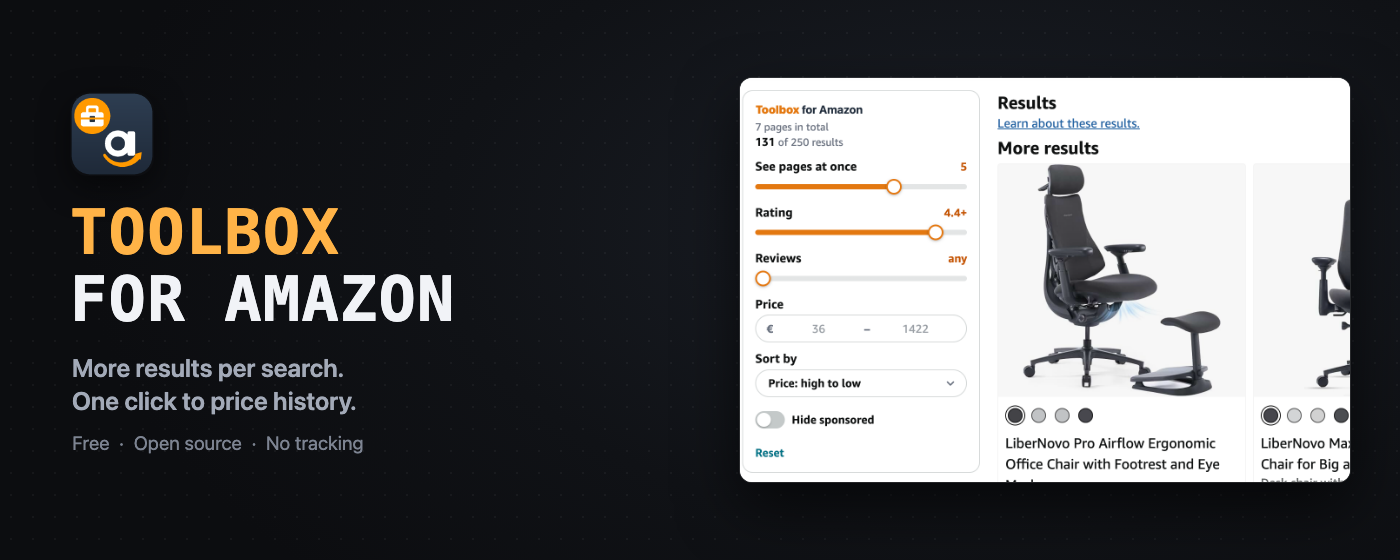
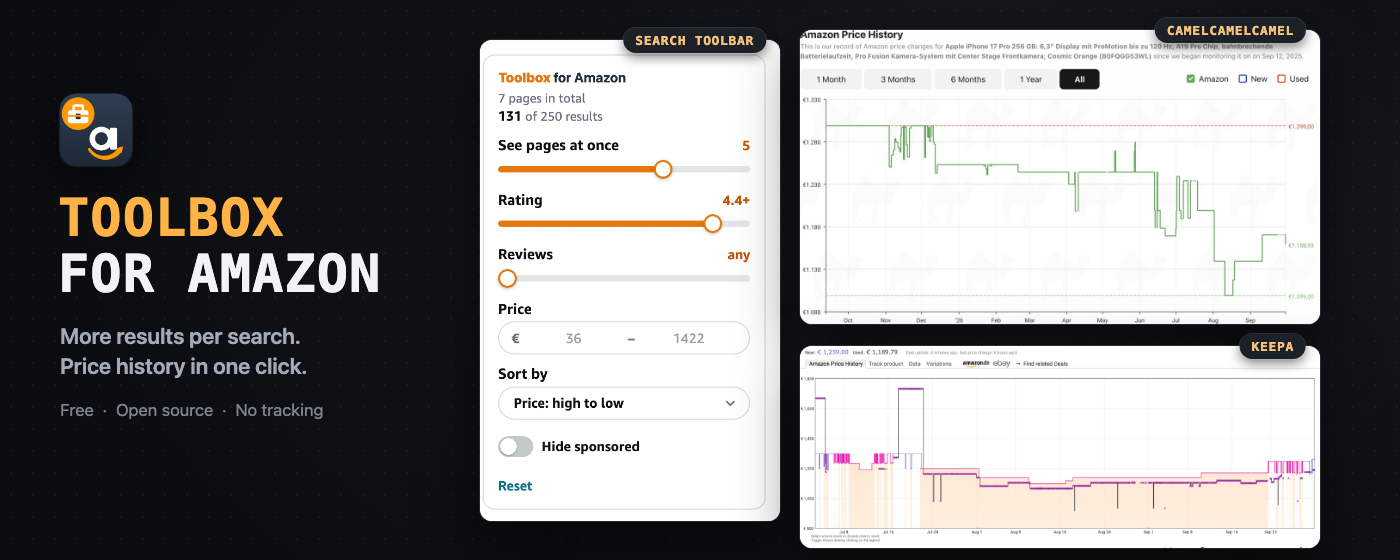
docs: new promo tiles with search panel and both price charts; store permission justifications
- marquee (1400x560) and small (440x280) tiles now show the toolbox panel
  together with the CamelCamelCamel and Keepa charts
- CHROMEWEBSTORE.md: updated permission justifications (activeTab, tabs,
  contextMenus, storage, host) and remote-code answer for the 1.1.0 listing

diff --git a/CHROMEWEBSTORE.md b/CHROMEWEBSTORE.md
@@ -39,16 +39,24 @@ CamelCamelCamel and Keepa — via inline buttons, the toolbar icon or a right-cl
 - **1.0.2** — Context menu is now only shown on product pages (hidden on cart/checkout pages).
 - **1.0.1** — Extension icon now dims to grayscale when not actively browsing an Amazon product page.
 
-## Permission justifications (paste into the dashboard's Permissions tab)
+## Permission justifications (paste into the dashboard's Privacy practices tab)
 
-- **activeTab** — Used only when the user clicks the toolbar icon or the context menu, to read
-  the current tab's URL and title so the extension can detect the Amazon product being viewed
-  and build outbound links.
-- **tabs** — Used to monitor the active URL as you browse, so the extension's icon can be dimmed when not on an Amazon product page.
-- **contextMenus** — Adds the "Check price history" right-click entry (with CamelCamelCamel and
-  Keepa sub-items) on Amazon product pages.
-- **storage** — Required to save your settings: whether the on-page buttons and the search toolbar are enabled, and the search toolbar's last-used values (pages, rating, reviews, sort).
-- **Host Permissions (`*://*.amazon.com/*`, etc.)** — Required to inject the price tracker buttons next to the price on product pages, and the multi-page toolbar on search pages (which fetches the extra result pages you request from the same Amazon site).
+**activeTab**
+> Used when the user clicks the toolbar icon to open the popup. The extension reads the URL and title of the tab being viewed, only to detect whether it is an Amazon product or search page and, on a product page, to build the links to that product's price history on CamelCamelCamel and Keepa. Nothing is collected, stored or sent anywhere.
+
+**contextMenus**
+> Adds one right-click entry, "Check price history", with CamelCamelCamel and Keepa sub-items. It appears only on Amazon product pages. Choosing an item opens that product's price-history page on the chosen site in a new tab. This is the only use of the permission.
+
+**tabs**
+> Used only to read the URL of the active tab, so the extension can tell whether it is an Amazon product or search page. This lets the toolbar icon show as active on those pages and dimmed elsewhere, and lets the popup show the right links. URLs are checked locally in the browser and are never stored, logged or transmitted. No browsing history is collected.
+
+**storage**
+> Saves the user's own preferences in the browser: whether the price-history buttons and the multi-page search toolbar are shown (chrome.storage.sync, so the choice follows the user across devices), and the search toolbar's last-used settings such as number of pages, minimum rating, minimum reviews, sort order and hide-sponsored (chrome.storage.local). No personal data, browsing history or Amazon product information is stored or transmitted.
+
+**Host permission**
+> Content scripts run on Amazon product pages, to add the CamelCamelCamel and Keepa quick-access buttons next to the price, and on Amazon search-result pages, to add the filter panel above Amazon's own filters. To show several results pages at once, the panel requests the next result pages from the same Amazon site the user is already on, using their normal session, and merges the products into the page. These requests go only to Amazon. No data is collected, stored or sent to any other server.
+
+**Remote code:** No. All code ships in the package. The only network request is the search toolbar fetching more Amazon result pages (HTML data, parsed and never executed) from the same Amazon site.
 
 ## Privacy practices tab
 
@@ -73,8 +81,8 @@ CamelCamelCamel and Keepa — via inline buttons, the toolbar icon or a right-cl
   5. `screenshot-5-camelcamelcamel.png` — "Jump straight to the price history". Alt: CamelCamelCamel chart
      for the product.
   Retired (outdated UI or over the 5-screenshot limit): `store-assets/archive/`.
-- Small promo tile (440×280, no alpha): `store-assets/promo-tile-small-440x280.png` — "Toolbox for Amazon" with the new icon
-- Marquee promo tile (1400×560, no alpha): `store-assets/promo-tile-marquee-1400x560.png` — title, tagline and the search panel
+- Small promo tile (440×280, 24-bit PNG, no alpha): `store-assets/promo-tile-small-440x280.png` — name and tagline, with the search panel and the CamelCamelCamel and Keepa charts
+- Marquee promo tile (1400×560, 24-bit PNG, no alpha): `store-assets/promo-tile-marquee-1400x560.png` — name, tagline and icon, with the search panel and both price-history charts (labelled "Search toolbar", "CamelCamelCamel", "Keepa")
 - Listing: https://chromewebstore.google.com/detail/fdebpchoageihbdifaiallkcipeooaoo (item ID `fdebpchoageihbdifaiallkcipeooaoo`)
 - Promo video (optional "Global promo video" field, which takes a URL, not a file):
   https://www.youtube.com/watch?v=_BUUSi_Evqk
